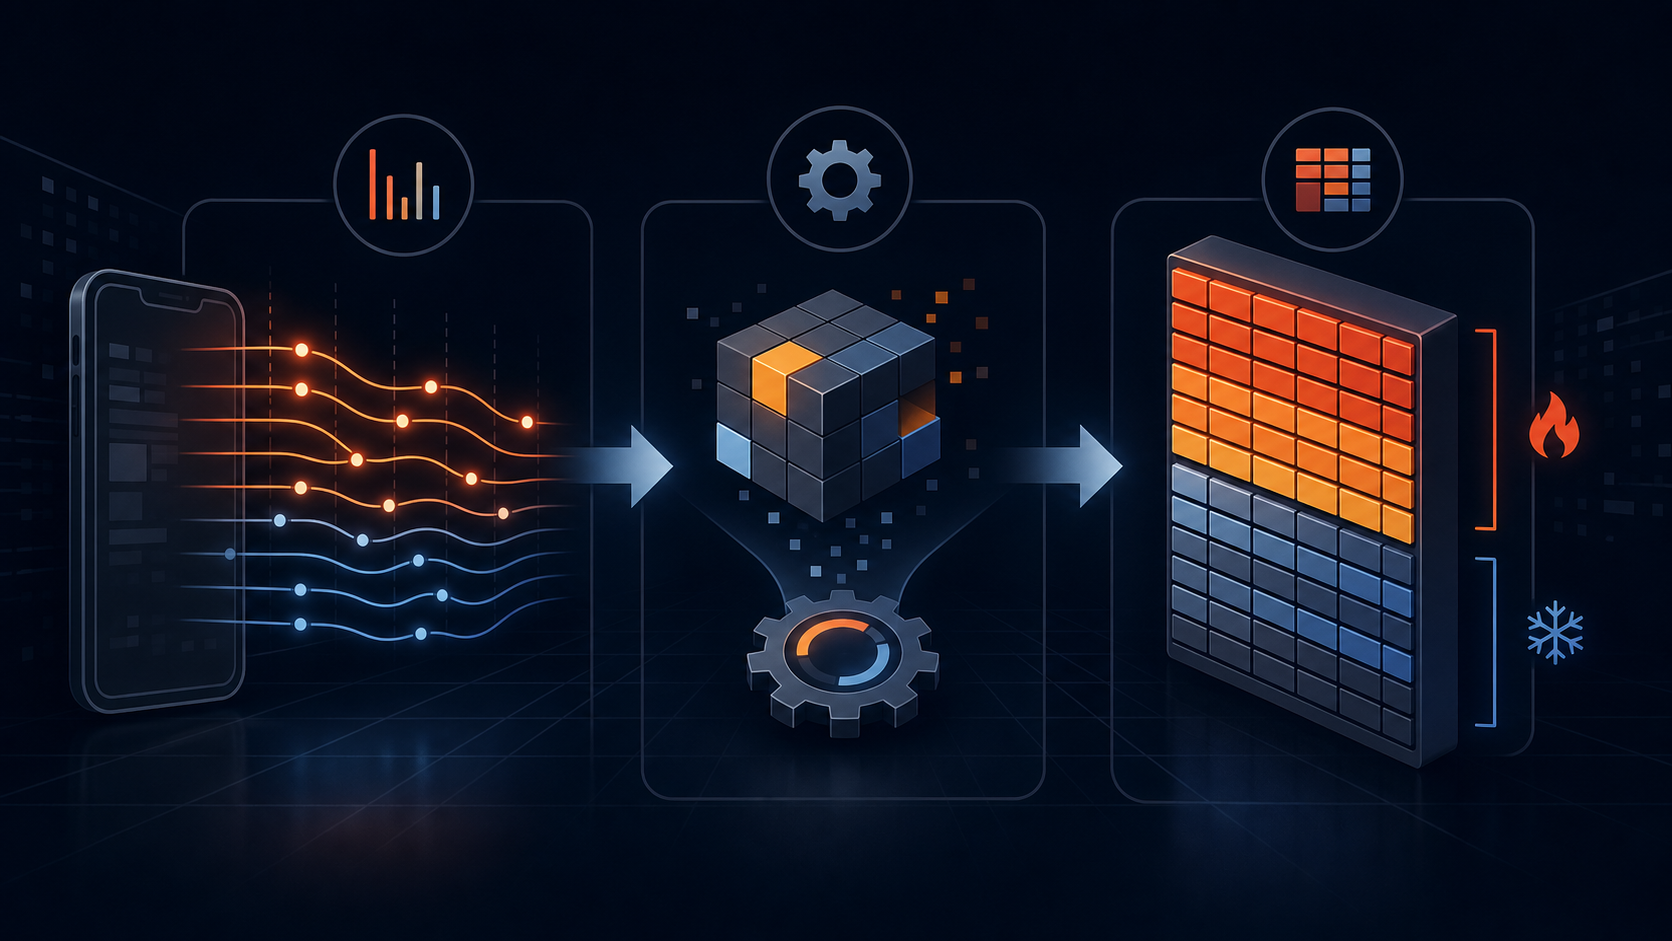
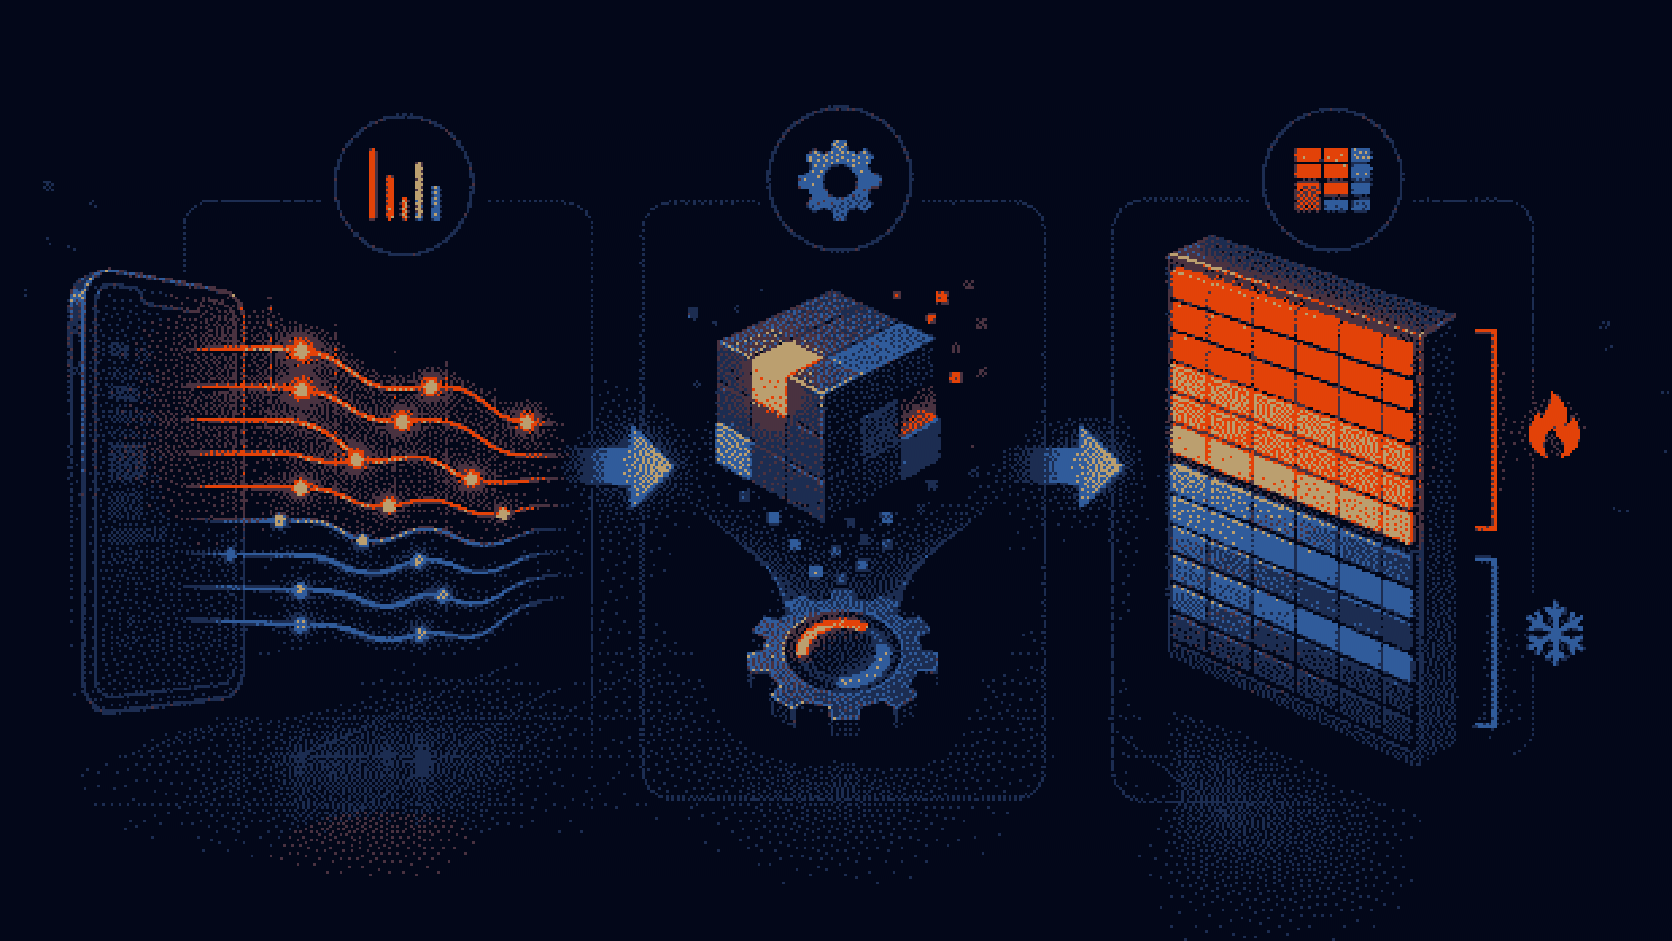
Update PGO learning post

diff --git a/content/ai-learnings/2026-07-12-profile-guided-optimization/index.md b/content/ai-learnings/2026-07-12-profile-guided-optimization/index.md
@@ -90,7 +90,7 @@ and that a compiler turns source code into machine code. Nothing more.
 .xpgo .bars { display:grid; gap:.45rem; margin:.6rem 0; }
 .xpgo .barrow { display:grid; grid-template-columns:minmax(6rem,9rem) 1fr 3.5rem; gap:.6rem; align-items:center; font-size:.84rem; }
 .xpgo .track { height:.85rem; border-radius:999px; background:var(--bg); border:1px solid var(--border); overflow:hidden; }
-.xpgo .fill { height:100%; width:var(--w,50%); background:var(--accent); }
+.xpgo .fill { display:block; height:100%; width:var(--w,50%); background:var(--accent); transition:width .15s ease; }
 .xpgo .fill.hot { background:var(--hot); }
 .xpgo .fill.cold { background:var(--cold); }
 .xpgo .fill.warm { background:var(--warm); }
@@ -128,10 +128,11 @@ and that a compiler turns source code into machine code. Nothing more.
 <li><a href="#part6">Function layout and page faults</a></li>
 <li><a href="#part7">Balanced partitioning</a></li>
 <li><a href="#part8">Reddit's iOS pipeline</a></li>
-<li><a href="#part9">Measurement and traps</a></li>
-<li><a href="#part10">Diagnostic reference</a></li>
-<li><a href="#part11">FAQ</a></li>
-<li><a href="#part12">Glossary</a></li>
+<li><a href="#part9">Case study: reading a real profile</a></li>
+<li><a href="#part10">Measurement and traps</a></li>
+<li><a href="#part11">Diagnostic reference</a></li>
+<li><a href="#part12">FAQ</a></li>
+<li><a href="#part13">Glossary</a></li>
 </ol>
 </nav>
 
@@ -535,7 +536,100 @@ release build
 
 <p>Those are size wins. The startup win was subtler to measure because iOS performs background optimizations after installation. Reddit focused on first-day behavior after install/update, where cold-start layout matters most, and used a dual-release strategy: one standard release, then an identical-code optimized release.</p>
 
-<h2 id="part9">Part 9 — Measurement and traps</h2>
+<h2 id="part9">Part 9 — Case study: reading a real profile</h2>
+<p>Everything above was theory plus other people's numbers. So I collected an IR PGO profile from the app I work on — a large marketplace iOS app, ~100 build modules — using a UI test that performs 6 cold launches and a feed browse pass. Then I actually read the profile. This section is what the theory looks like against production-scale code, and it changed how I think about two things: how extreme the hot/cold split really is, and whose code the hot set is made of.</p>
+
+<div class="metric-row">
+<div class="metric"><div class="label">Functions instrumented</div><div class="value">383,676</div><div class="sub">the whole app + every dependency</div></div>
+<div class="metric"><div class="label">Executions recorded</div><div class="value">36.65M</div><div class="sub">sum of every branch-point counter</div></div>
+<div class="metric"><div class="label">Never called</div><div class="value">96.32%</div><div class="sub">369,574 functions had entry count 0</div></div>
+</div>
+
+<h3>How skewed is "skewed"?</h3>
+<p>Before looking, I assumed hot/cold meant something like 20/80. The real distribution is not in that universe. <code>llvm-profdata show --detailed-summary</code> prints a cumulative table: how many counter blocks (branch points) does it take to cover each share of all recorded executions? Verbatim output:</p>
+
+<pre>$ xcrun llvm-profdata show --detailed-summary app.profdata
+Total functions: 383676
+Total number of blocks: 1073586
+Total count: 36654739
+Detailed summary:
+26 blocks (0.00%) with count >= 197216 account for 50% of the total counts.
+485 blocks (0.05%) with count >= 6384 account for 90% of the total counts.
+1084 blocks (0.10%) with count >= 1505 account for 95% of the total counts.
+4666 blocks (0.43%) with count >= 133 account for 99% of the total counts.</pre>
+
+<div class="iviz">
+<h4>Blocks needed to cover each share of execution</h4>
+<div class="bars">
+<div class="barrow"><span>50% of counts</span><span class="track"><span class="fill hot" style="--w:50%"></span></span><span>26</span></div>
+<div class="barrow"><span>80%</span><span class="track"><span class="fill hot" style="--w:80%"></span></span><span>181</span></div>
+<div class="barrow"><span>90%</span><span class="track"><span class="fill warm" style="--w:90%"></span></span><span>485</span></div>
+<div class="barrow"><span>95%</span><span class="track"><span class="fill warm" style="--w:95%"></span></span><span>1,084</span></div>
+<div class="barrow"><span>99%</span><span class="track"><span class="fill cold" style="--w:99%"></span></span><span>4,666</span></div>
+<div class="barrow"><span>100%</span><span class="track"><span class="fill cold" style="--w:100%"></span></span><span>24,071</span></div>
+</div>
+<p class="dcaption">Bar length = share of execution covered; the number on the right = blocks needed, out of 1,073,586. Only 24,071 blocks (2.2%) executed at all.</p>
+</div>
+
+<div class="callout">
+<p class="rule">If execution were uniform, covering 50% of the counts would take ~537,000 blocks. It took 26. That is a concentration factor of roughly 20,000×.</p>
+<p class="corollary">This is why PGO works at all: the compiler can lavish attention on a few hundred functions and treat literally everything else as cold, and that policy is correct for 97.8% of the binary.</p>
+</div>
+
+<h3>Whose code is hot? Not mine.</h3>
+<p>My second wrong assumption: that the hot set would be my app's code. Bucketing all 21M function <em>entries</em> by what kind of code was entered:</p>
+
+<div class="iviz">
+<h4>Share of function entries by code kind</h4>
+<div class="bars">
+<div class="barrow"><span>Swift runtime helpers</span><span class="track"><span class="fill hot" style="--w:43.5%"></span></span><span>43.5%</span></div>
+<div class="barrow"><span>Compiler glue</span><span class="track"><span class="fill warm" style="--w:37.8%"></span></span><span>37.8%</span></div>
+<div class="barrow"><span>Third-party SDKs</span><span class="track"><span class="fill cold" style="--w:16%"></span></span><span>16.0%</span></div>
+<div class="barrow"><span>My app's code</span><span class="track"><span class="fill" style="--w:1.5%"></span></span><span>1.5%</span></div>
+</div>
+<p class="dcaption">"Compiler glue" = protocol/value witnesses, outlined copy/destroy helpers, thunks, metadata accessors — machinery the compiler generates around everyone's code.</p>
+</div>
+
+<p>The single most-called function in the entire app was <code>__swift_memcpy1_1</code> — 2,920,324 calls. That is 2.9 million <em>one-byte copies</em>, almost all driven by one third-party experimentation SDK that round-trips its JSON payloads through type-erased <code>Any</code> boxes during launch. The hottest single branch point in the binary was the read loop of nanopb — the C protobuf parser inside the analytics SDK — at 3.31M executions, because analytics state is parsed <em>and re-encoded</em> on every cold start.</p>
+
+<table>
+<thead><tr><th>Hottest spots in the binary</th><th>What it is</th><th>Max count</th></tr></thead>
+<tbody>
+<tr><td><code>buf_read</code> (nanopb)</td><td>protobuf decode loop, analytics SDK</td><td>3,312,715</td></tr>
+<tr><td><code>__swift_memcpy1_1</code></td><td>runtime helper: copy one byte</td><td>2,920,324</td></tr>
+<tr><td><code>__swift_noop_void_return</code></td><td>runtime helper: do nothing</td><td>2,629,953</td></tr>
+<tr><td><code>AnyEncodable</code> destroy/copy witnesses</td><td>Codable type-erasure glue, experiments SDK</td><td>535,920 / 446,600</td></tr>
+</tbody>
+</table>
+
+<p>Three more things the profile revealed that no amount of code review would have surfaced:</p>
+
+<div class="cards">
+<div class="card">
+<h4>The profile is a free product audit</h4>
+<p>17% of all function entries belonged to one experimentation SDK's Codable glue. The localization layer burned 250K entries in just 56 functions, copying a large enum payload on every string lookup. Neither showed up in any Instruments session we had run — they were spread across too many tiny calls.</p>
+</div>
+<div class="card">
+<h4>Dead weight is measurable</h4>
+<p>A generated analytics-events package contributed 6.8% of all functions in the binary but ~0.05% of execution. That is exactly the code the cold-marking half of PGO shrinks — and the strongest argument for the layout techniques in Parts 5–7.</p>
+</div>
+<div class="card">
+<h4>The hot set is glue, so PGO's wins are glue wins</h4>
+<p>Inlining a 3-line value witness into its hot caller eliminates call overhead on millions of one-byte copies. The classic C wins apply too: precise branch weights in nanopb's decode loops, the hottest code in the binary.</p>
+</div>
+</div>
+
+<p>To do this on any app: build with <code>-fprofile-generate</code> (plus swiftc's IR-profile flags on iOS), run a launch workload, merge, then read the result before applying it:</p>
+
+<pre>xcrun llvm-profdata show --detailed-summary app.profdata   <span class="dim"># the skew table</span>
+xcrun llvm-profdata show --topn=50 app.profdata | xcrun swift-demangle   <span class="dim"># hottest functions</span>
+xcrun llvm-profdata show --all-functions --counts app.profdata | less    <span class="dim"># everything</span></pre>
+
+<div class="callout">
+<p class="rule">Read the profile before you feed it to the compiler. The same file that guides the optimizer is the most honest launch-behavior audit you will ever get for free.</p>
+</div>
+
+<h2 id="part10">Part 10 — Measurement and traps</h2>
 <p>PGO sounds mechanical, but the quality of the result depends on the quality of the profile and the measurement plan.</p>
 
 <table>
@@ -564,7 +658,7 @@ release build
 <p class="rule">The hard engineering is not "turn on PGO". The hard engineering is collecting profiles you trust and proving the optimized binary helped.</p>
 </div>
 
-<h2 id="part10">Part 10 — Diagnostic reference</h2>
+<h2 id="part11">Part 11 — Diagnostic reference</h2>
 <p>Useful commands and flags to recognize when reading a PGO pipeline:</p>
 
 <table>
@@ -594,7 +688,7 @@ release build
 <div id="xpgo-cmd-card" class="term-card">Build an instrumented binary that emits raw profile data. This is the learning build, not the final release build.</div>
 </div>
 
-<h2 id="part11">Part 11 — FAQ</h2>
+<h2 id="part12">Part 12 — FAQ</h2>
 <details class="faq">
 <summary>Is PGO the same as test coverage?</summary>
 <p>No. Both may use instrumentation, but the goal differs. Test coverage asks "did tests execute this code?" PGO asks "how should the optimizer spend effort based on execution behavior?" A profile can be useful for PGO even if it is not a complete coverage report.</p>
@@ -638,7 +732,7 @@ release build
 </div>
 </div>
 
-<h2 id="part12">Part 12 — Glossary</h2>
+<h2 id="part13">Part 13 — Glossary</h2>
 <div class="iviz">
 <h4>Pick a term</h4>
 <div class="term-grid">